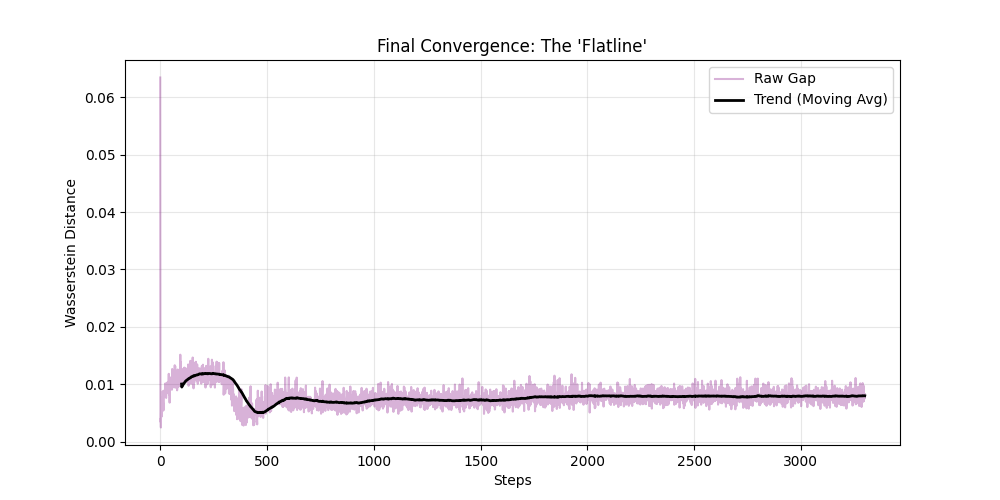
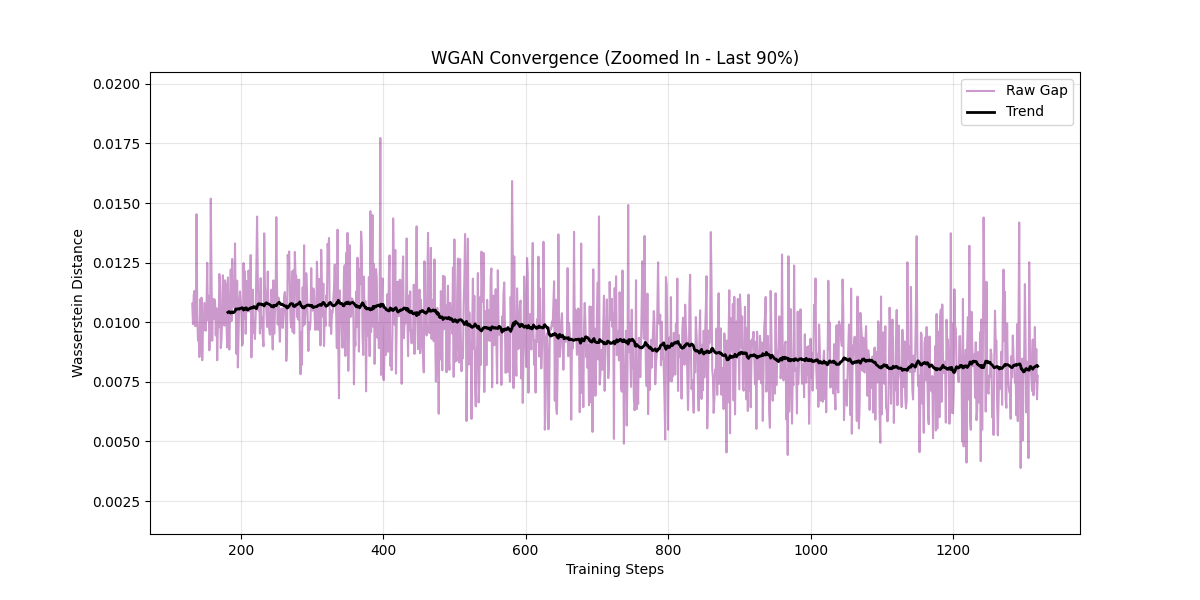
purrr

diff --git a/utils/train.py b/utils/train.py
@@ -6,6 +6,7 @@ from tqdm import tqdm
 import matplotlib.pyplot as plt
 import os
 import sys
+import timeit
 
 # Setup paths
 project_root = os.path.dirname(os.path.dirname(os.path.abspath(__file__)))
@@ -16,7 +17,7 @@ from model.generator import QuantumGenerator
 from model.discriminator import Discriminator
 
 # --- FINAL CONFIG ---
-EPOCHS = 150           # Increased from 50 to 300 for full convergence
+EPOCHS = 60         
 BATCH_SIZE = 64
 LR_G = 0.0002
 LR_D = 0.00005
@@ -36,15 +37,14 @@ disc.model[-1] = nn.Identity() # WGAN Mode
 opt_G = optim.RMSprop(gen.parameters(), lr=LR_G)
 opt_D = optim.RMSprop(disc.parameters(), lr=LR_D)
 
-# [NEW] Learning Rate Schedulers
-# Every 50 epochs, cut the learning rate by 50%.
 # This acts like a "parachute" for the sine wave, forcing it to land smoothly.
-scheduler_G = optim.lr_scheduler.StepLR(opt_G, step_size=25, gamma=0.5)
-scheduler_D = optim.lr_scheduler.StepLR(opt_D, step_size=25, gamma=0.5)
+scheduler_G = optim.lr_scheduler.StepLR(opt_G, step_size=15, gamma=0.5)
+scheduler_D = optim.lr_scheduler.StepLR(opt_D, step_size=15, gamma=0.5)
 
 w_distances = [] 
 
 print(f"Starting Long-Run Training ({EPOCHS} Epochs)...")
+starttime = timeit.default_timer()
 
 for epoch in range(EPOCHS):
     pbar = tqdm(dataloader, desc=f"Epoch {epoch+1}/{EPOCHS}")
@@ -80,14 +80,34 @@ for epoch in range(EPOCHS):
     scheduler_D.step()
 
 # --- PLOT THE CONVERGENCE ---
-plt.figure(figsize=(10, 5))
-plt.plot(w_distances, color='purple', alpha=0.3, label="Raw Gap")
-# Plot a moving average to see the trend clearly
-moving_avg = [sum(w_distances[i:i+100])/100 for i in range(len(w_distances)-100)]
-plt.plot(range(100, len(w_distances)), moving_avg, color='black', linewidth=2, label="Trend (Moving Avg)")
+print(f"Training complete in {timeit.default_timer() - starttime}s. Generating plot...")
+plt.figure(figsize=(12, 6))
 
-plt.title("Final Convergence: The 'Flatline'")
-plt.xlabel("Steps")
+# 1. Determine Cutoff (Skip first 10% of training to hide the startup spike)
+cutoff = int(len(w_distances) * 0.1) 
+zoomed_data = w_distances[cutoff:]
+zoomed_steps = range(cutoff, len(w_distances))
+
+# 2. Plot Raw Gap (Zoomed)
+plt.plot(zoomed_steps, zoomed_data, color='purple', alpha=0.4, label="Raw Gap")
+
+# 3. Plot Trend Line (Moving Average)
+window = 50
+if len(zoomed_data) > window:
+    # Calculate moving avg on the ZOOMED data only
+    moving_avg = [sum(zoomed_data[i:i+window])/window for i in range(len(zoomed_data)-window)]
+    # Align x-axis
+    plt.plot(range(cutoff+window, len(w_distances)), moving_avg, color='black', linewidth=2, label="Trend")
+
+# 4. Force Y-Axis Focus
+# We set the limits based on the ZOOMED data, ignoring the initial spike
+y_min = min(zoomed_data)
+y_max = max(zoomed_data)
+margin = (y_max - y_min) * 0.2
+plt.ylim(y_min - margin, y_max + margin)
+
+plt.title(f"WGAN Convergence (Zoomed In - Last 90%)")
+plt.xlabel("Training Steps")
 plt.ylabel("Wasserstein Distance")
 plt.legend()
 plt.grid(True, alpha=0.3)

diff --git a/model/ansatz.py b/model/ansatz.py
@@ -1,27 +1,37 @@
 import pennylane as qml # type: ignore
 import torch # type: ignore
 
-N_QUBITS = 15
-N_LAYERS = 2 
-dev = qml.device("default.qubit", wires=N_QUBITS)
+N_QUBITS = 10
+N_LAYERS = 3
+dev = qml.device("lightning.qubit", wires=N_QUBITS)
 
-@qml.qnode(dev, interface="torch", diff_method="backprop")
-def quantum_circuit(weights):
-    # weights shape: [N_LAYERS, N_QUBITS, 3]
+@qml.qnode(dev, interface="torch", diff_method="adjoint")
+def quantum_circuit(inputs, weights):
+    # inputs shape: [batch_size, N_QUBITS] (Random Noise)
+    # weights shape: [N_LAYERS, N_QUBITS, 3] (Parameters)
+    
+    # 1. ENCODING LAYER (Inject the Randomness)
+    # We use Angle Embedding to load the noise 'z' into the quantum state.
+    # PennyLane automatically broadcasts this batch across the wires.
+    for i in range(N_QUBITS):
+        qml.RX(inputs[:, i], wires=i)
+
+    # 2. VARIATIONAL LAYERS (The "Brain")
+    # These weights are fixed for the batch, but applied to diverse states.
     for l in range(N_LAYERS):
-        # 1. ROTATION BLOCK (The "Thinking" Part)
         for i in range(N_QUBITS):
             qml.RX(weights[l, i, 0], wires=i)
             qml.RY(weights[l, i, 1], wires=i)
             qml.RZ(weights[l, i, 2], wires=i)
         
-        # 2. ENTANGLEMENT BLOCK (The "Correlation" Part)
-        # We switch to Circular Entanglement for better connectivity
+        # Circular Entanglement
         for i in range(N_QUBITS):
-            qml.CNOT(wires=[i, (i + 1) % N_QUBITS]) # ladder style
+            qml.CNOT(wires=[i, (i + 1) % N_QUBITS])
+
     return [qml.expval(qml.PauliZ(i)) for i in range(N_QUBITS)]
 
 if __name__ == "__main__":
     weights = torch.randn(N_LAYERS, N_QUBITS, 3)
-    results = quantum_circuit(weights)
-    print(results)
+    inputs = torch.randn(N_LAYERS, N_QUBITS)
+    results = quantum_circuit(inputs, weights)
+    print(f"Calculated {len(results)} results")

diff --git a/model/generator.py b/model/generator.py
@@ -3,28 +3,23 @@ import torch # type: ignore
 import torch.nn as nn # type: ignore
 from .ansatz import N_LAYERS, N_QUBITS
 
+N_TIMESTEPS = 15
+
 class QuantumGenerator(nn.Module):
     def __init__(self):
         super().__init__()
-        # 1. Quantum Weights
         self.weights = nn.Parameter(0.01 * torch.randn(N_LAYERS, N_QUBITS, 3))
-        
-        # 2. Classical Shaping Layer (The "Expressivity" Boost)
-        # Instead of a simple scalar multiplier, we use a Linear layer.
-        # This helps map the [-1, 1] quantum output to the exact stock returns.
-        self.shaping = nn.Linear(N_QUBITS, N_QUBITS)
+        self.shaping = nn.Linear(N_QUBITS, N_TIMESTEPS)
 
     def forward(self, batch_size):
-        # 1. Run Quantum Circuit (Once)
-        # Output: [15]
-        q_out = torch.stack(quantum_circuit(self.weights)).float()
+        # 1. GENERATE NOISE (The "Seed")
+        # Create a batch of random numbers (z)
+        z = torch.randn(batch_size, N_QUBITS)
         
-        # 2. Duplicate for Batch
-        # Output: [batch_size, 15]
-        batched_out = q_out.unsqueeze(0).repeat(batch_size, 1)
+        # 2. RUN CIRCUIT (Broadcasted)
+        # We pass 'z' as inputs. PennyLane runs 'batch_size' simulations in parallel.
+        # Output shape: [15, batch_size] -> Transpose to [batch_size, 15]
+        q_out = torch.stack(quantum_circuit(z, self.weights), dim=1).float()
         
-        # 3. Apply Classical Shaping
-        # This gives the generator the fine-tuning control it lacked before.
-        final_out = self.shaping(batched_out)
-        
-        return final_out
+        # 3. SHAPE OUTPUT
+        return self.shaping(q_out)

diff --git a/model/discriminator.py b/model/discriminator.py
@@ -2,7 +2,7 @@ import torch # type: ignore
 import torch.nn as nn # type: ignore
 
 HIDDEN_SIZE = 64 // 2
-DROPOUT_RATE = 0.3
+DROPOUT_RATE = 0.2
 LEAKY_SLOPE = 0.2
 
 class Discriminator(nn.Module):
